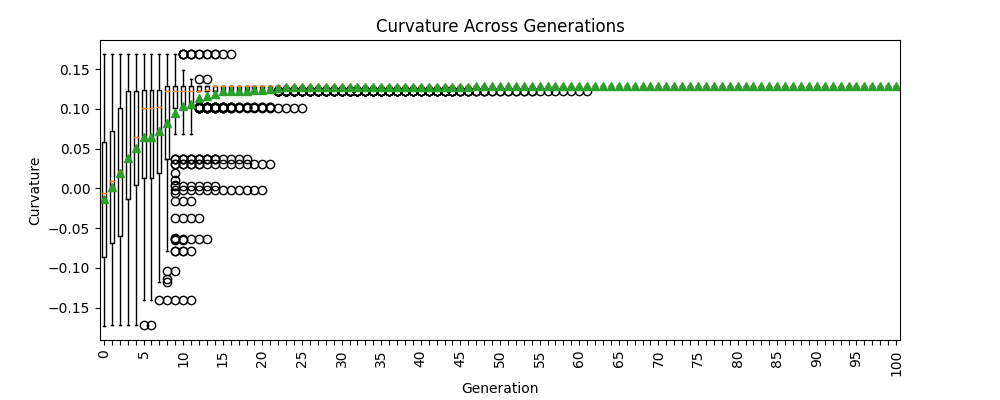
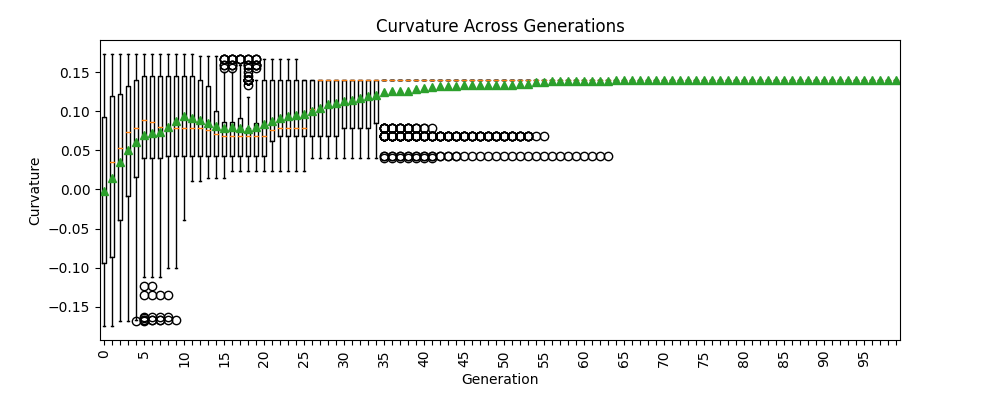
update images

diff --git a/src/analyze_ga.py b/src/analyze_ga.py
@@ -551,5 +551,5 @@ def match_values(df, **criteria):
 
 
 if __name__ == "__main__":
-    results_dir = "/home/nathan/Documents/GitHub/Bio-Inspired-Foot-Design/results/csv/ga_results_100x100.csv"
+    results_dir = "/home/nathan/Documents/GitHub/Bio-Inspired-Foot-Design/results/csv/ga_results_redo_05:20:2024:21:33:01.csv"
     analyze(results_dir)
